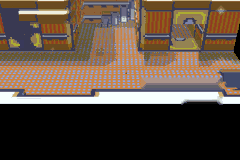
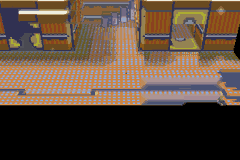
3D backdrops: Phoebe's room (captured from a wild battle, her trainer battle froze the 3DS port), Abandoned Ship B1F corridor without the white strip, hidden-floor water reuses the B1F rooms' water
Claude-Session: https://claude.ai/code/session_014PwRDjXGcLJqqHGfgN6Bdc

diff --git a/src/data/wj3d_backdrops.h b/src/data/wj3d_backdrops.h
@@ -7,6 +7,9 @@ static const u16 sWJ3D_AbandonedShipCorridors1f_Pal[] = INCGFX_U16("graphics/bat
 static const u32 sWJ3D_AbandonedShipCorridorsB1f_Tiles[] = INCGFX_U32("graphics/battle_environment/wj3d/abandoned_ship_corridors_b1f/tiles.png", ".4bpp.smol");
 static const u32 sWJ3D_AbandonedShipCorridorsB1f_Map[] = INCGFX_U32("graphics/battle_environment/wj3d/abandoned_ship_corridors_b1f/tilemap.bin", ".smolTM");
 static const u16 sWJ3D_AbandonedShipCorridorsB1f_Pal[] = INCGFX_U16("graphics/battle_environment/wj3d/abandoned_ship_corridors_b1f/palette.pal", ".gbapal");
+static const u32 sWJ3D_AbandonedShipHiddenFloorCorridorsWater_Tiles[] = INCGFX_U32("graphics/battle_environment/wj3d/abandoned_ship_hidden_floor_corridors__water/tiles.png", ".4bpp.smol");
+static const u32 sWJ3D_AbandonedShipHiddenFloorCorridorsWater_Map[] = INCGFX_U32("graphics/battle_environment/wj3d/abandoned_ship_hidden_floor_corridors__water/tilemap.bin", ".smolTM");
+static const u16 sWJ3D_AbandonedShipHiddenFloorCorridorsWater_Pal[] = INCGFX_U16("graphics/battle_environment/wj3d/abandoned_ship_hidden_floor_corridors__water/palette.pal", ".gbapal");
 static const u32 sWJ3D_AbandonedShipRooms21f_Tiles[] = INCGFX_U32("graphics/battle_environment/wj3d/abandoned_ship_rooms2_1f/tiles.png", ".4bpp.smol");
 static const u32 sWJ3D_AbandonedShipRooms21f_Map[] = INCGFX_U32("graphics/battle_environment/wj3d/abandoned_ship_rooms2_1f/tilemap.bin", ".smolTM");
 static const u16 sWJ3D_AbandonedShipRooms21f_Pal[] = INCGFX_U16("graphics/battle_environment/wj3d/abandoned_ship_rooms2_1f/palette.pal", ".gbapal");
@@ -58,6 +61,9 @@ static const u16 sWJ3D_EverGrandeCityDrakesRoom_Pal[] = INCGFX_U16("graphics/bat
 static const u32 sWJ3D_EverGrandeCityGlaciasRoom_Tiles[] = INCGFX_U32("graphics/battle_environment/wj3d/ever_grande_city_glacias_room/tiles.png", ".4bpp.smol");
 static const u32 sWJ3D_EverGrandeCityGlaciasRoom_Map[] = INCGFX_U32("graphics/battle_environment/wj3d/ever_grande_city_glacias_room/tilemap.bin", ".smolTM");
 static const u16 sWJ3D_EverGrandeCityGlaciasRoom_Pal[] = INCGFX_U16("graphics/battle_environment/wj3d/ever_grande_city_glacias_room/palette.pal", ".gbapal");
+static const u32 sWJ3D_EverGrandeCityPhoebesRoom_Tiles[] = INCGFX_U32("graphics/battle_environment/wj3d/ever_grande_city_phoebes_room/tiles.png", ".4bpp.smol");
+static const u32 sWJ3D_EverGrandeCityPhoebesRoom_Map[] = INCGFX_U32("graphics/battle_environment/wj3d/ever_grande_city_phoebes_room/tilemap.bin", ".smolTM");
+static const u16 sWJ3D_EverGrandeCityPhoebesRoom_Pal[] = INCGFX_U16("graphics/battle_environment/wj3d/ever_grande_city_phoebes_room/palette.pal", ".gbapal");
 static const u32 sWJ3D_EverGrandeCitySidneysRoom_Tiles[] = INCGFX_U32("graphics/battle_environment/wj3d/ever_grande_city_sidneys_room/tiles.png", ".4bpp.smol");
 static const u32 sWJ3D_EverGrandeCitySidneysRoom_Map[] = INCGFX_U32("graphics/battle_environment/wj3d/ever_grande_city_sidneys_room/tilemap.bin", ".smolTM");
 static const u16 sWJ3D_EverGrandeCitySidneysRoom_Pal[] = INCGFX_U16("graphics/battle_environment/wj3d/ever_grande_city_sidneys_room/palette.pal", ".gbapal");
@@ -486,6 +492,7 @@ static const struct WJ3DBackdrop sWJ3DBackdrops[] =
 {
     {MAP_GROUP(MAP_ABANDONED_SHIP_CORRIDORS_1F), MAP_NUM(MAP_ABANDONED_SHIP_CORRIDORS_1F), sWJ3D_AbandonedShipCorridors1f_Tiles, sWJ3D_AbandonedShipCorridors1f_Map, sWJ3D_AbandonedShipCorridors1f_Pal, WJ3D_ANY_ENVIRONMENT},
     {MAP_GROUP(MAP_ABANDONED_SHIP_CORRIDORS_B1F), MAP_NUM(MAP_ABANDONED_SHIP_CORRIDORS_B1F), sWJ3D_AbandonedShipCorridorsB1f_Tiles, sWJ3D_AbandonedShipCorridorsB1f_Map, sWJ3D_AbandonedShipCorridorsB1f_Pal, WJ3D_ANY_ENVIRONMENT},
+    {MAP_GROUP(MAP_ABANDONED_SHIP_HIDDEN_FLOOR_CORRIDORS), MAP_NUM(MAP_ABANDONED_SHIP_HIDDEN_FLOOR_CORRIDORS), sWJ3D_AbandonedShipHiddenFloorCorridorsWater_Tiles, sWJ3D_AbandonedShipHiddenFloorCorridorsWater_Map, sWJ3D_AbandonedShipHiddenFloorCorridorsWater_Pal, WJ3D_WATER_ENVIRONMENTS},
     {MAP_GROUP(MAP_ABANDONED_SHIP_ROOMS2_1F), MAP_NUM(MAP_ABANDONED_SHIP_ROOMS2_1F), sWJ3D_AbandonedShipRooms21f_Tiles, sWJ3D_AbandonedShipRooms21f_Map, sWJ3D_AbandonedShipRooms21f_Pal, WJ3D_ANY_ENVIRONMENT},
     {MAP_GROUP(MAP_ABANDONED_SHIP_ROOMS_1F), MAP_NUM(MAP_ABANDONED_SHIP_ROOMS_1F), sWJ3D_AbandonedShipRooms1f_Tiles, sWJ3D_AbandonedShipRooms1f_Map, sWJ3D_AbandonedShipRooms1f_Pal, WJ3D_ANY_ENVIRONMENT},
     {MAP_GROUP(MAP_ABANDONED_SHIP_ROOMS_B1F), MAP_NUM(MAP_ABANDONED_SHIP_ROOMS_B1F), sWJ3D_AbandonedShipRoomsB1fWater_Tiles, sWJ3D_AbandonedShipRoomsB1fWater_Map, sWJ3D_AbandonedShipRoomsB1fWater_Pal, WJ3D_WATER_ENVIRONMENTS},
@@ -503,6 +510,7 @@ static const struct WJ3DBackdrop sWJ3DBackdrops[] =
     {MAP_GROUP(MAP_EVER_GRANDE_CITY_CHAMPIONS_ROOM), MAP_NUM(MAP_EVER_GRANDE_CITY_CHAMPIONS_ROOM), sWJ3D_EverGrandeCityChampionsRoom_Tiles, sWJ3D_EverGrandeCityChampionsRoom_Map, sWJ3D_EverGrandeCityChampionsRoom_Pal, WJ3D_ANY_ENVIRONMENT},
     {MAP_GROUP(MAP_EVER_GRANDE_CITY_DRAKES_ROOM), MAP_NUM(MAP_EVER_GRANDE_CITY_DRAKES_ROOM), sWJ3D_EverGrandeCityDrakesRoom_Tiles, sWJ3D_EverGrandeCityDrakesRoom_Map, sWJ3D_EverGrandeCityDrakesRoom_Pal, WJ3D_ANY_ENVIRONMENT},
     {MAP_GROUP(MAP_EVER_GRANDE_CITY_GLACIAS_ROOM), MAP_NUM(MAP_EVER_GRANDE_CITY_GLACIAS_ROOM), sWJ3D_EverGrandeCityGlaciasRoom_Tiles, sWJ3D_EverGrandeCityGlaciasRoom_Map, sWJ3D_EverGrandeCityGlaciasRoom_Pal, WJ3D_ANY_ENVIRONMENT},
+    {MAP_GROUP(MAP_EVER_GRANDE_CITY_PHOEBES_ROOM), MAP_NUM(MAP_EVER_GRANDE_CITY_PHOEBES_ROOM), sWJ3D_EverGrandeCityPhoebesRoom_Tiles, sWJ3D_EverGrandeCityPhoebesRoom_Map, sWJ3D_EverGrandeCityPhoebesRoom_Pal, WJ3D_ANY_ENVIRONMENT},
     {MAP_GROUP(MAP_EVER_GRANDE_CITY_SIDNEYS_ROOM), MAP_NUM(MAP_EVER_GRANDE_CITY_SIDNEYS_ROOM), sWJ3D_EverGrandeCitySidneysRoom_Tiles, sWJ3D_EverGrandeCitySidneysRoom_Map, sWJ3D_EverGrandeCitySidneysRoom_Pal, WJ3D_ANY_ENVIRONMENT},
     {MAP_GROUP(MAP_FIERY_PATH), MAP_NUM(MAP_FIERY_PATH), sWJ3D_FieryPath_Tiles, sWJ3D_FieryPath_Map, sWJ3D_FieryPath_Pal, WJ3D_ANY_ENVIRONMENT},
     {MAP_GROUP(MAP_FORTREE_CITY_GYM), MAP_NUM(MAP_FORTREE_CITY_GYM), sWJ3D_FortreeCityGym_Tiles, sWJ3D_FortreeCityGym_Map, sWJ3D_FortreeCityGym_Pal, WJ3D_ANY_ENVIRONMENT},
